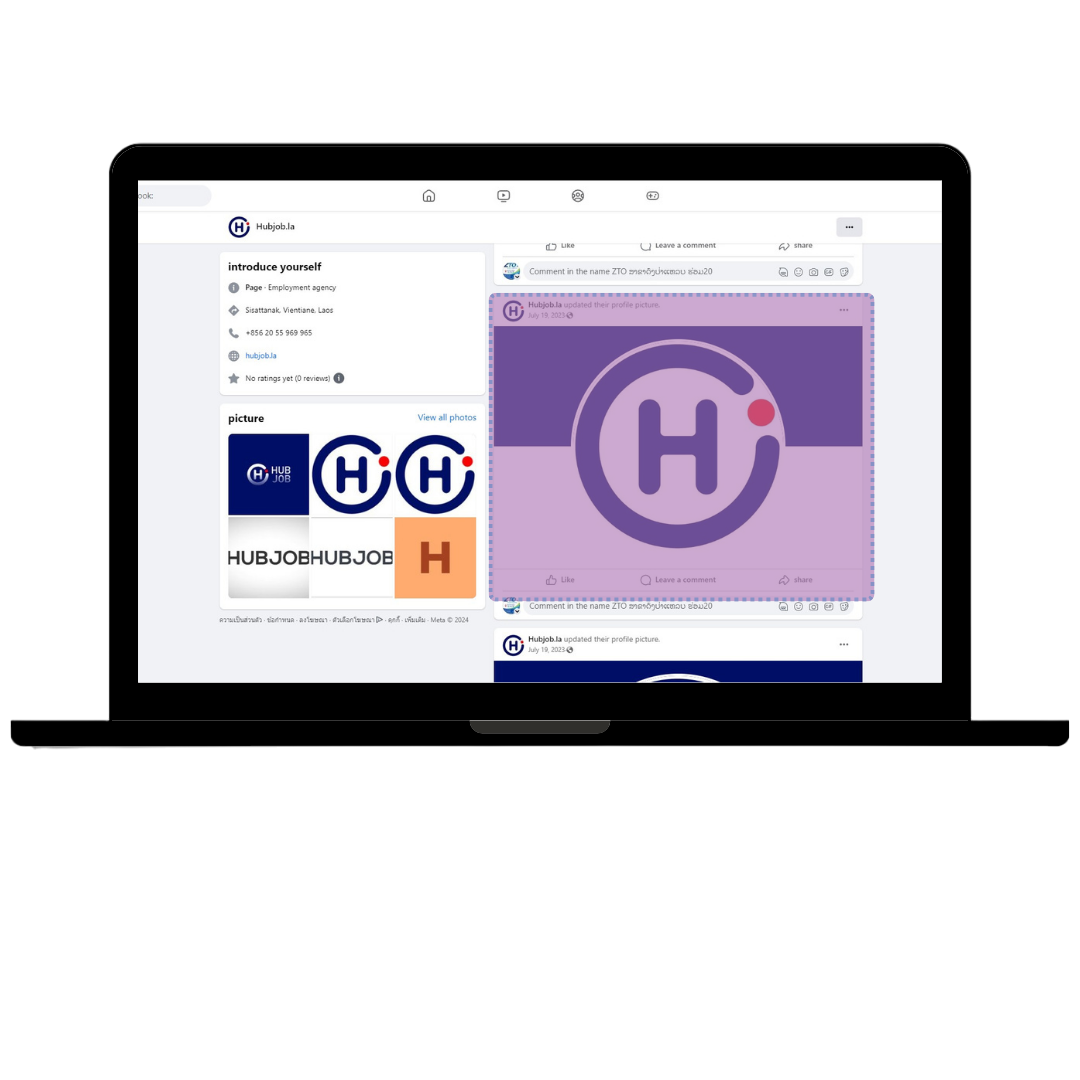
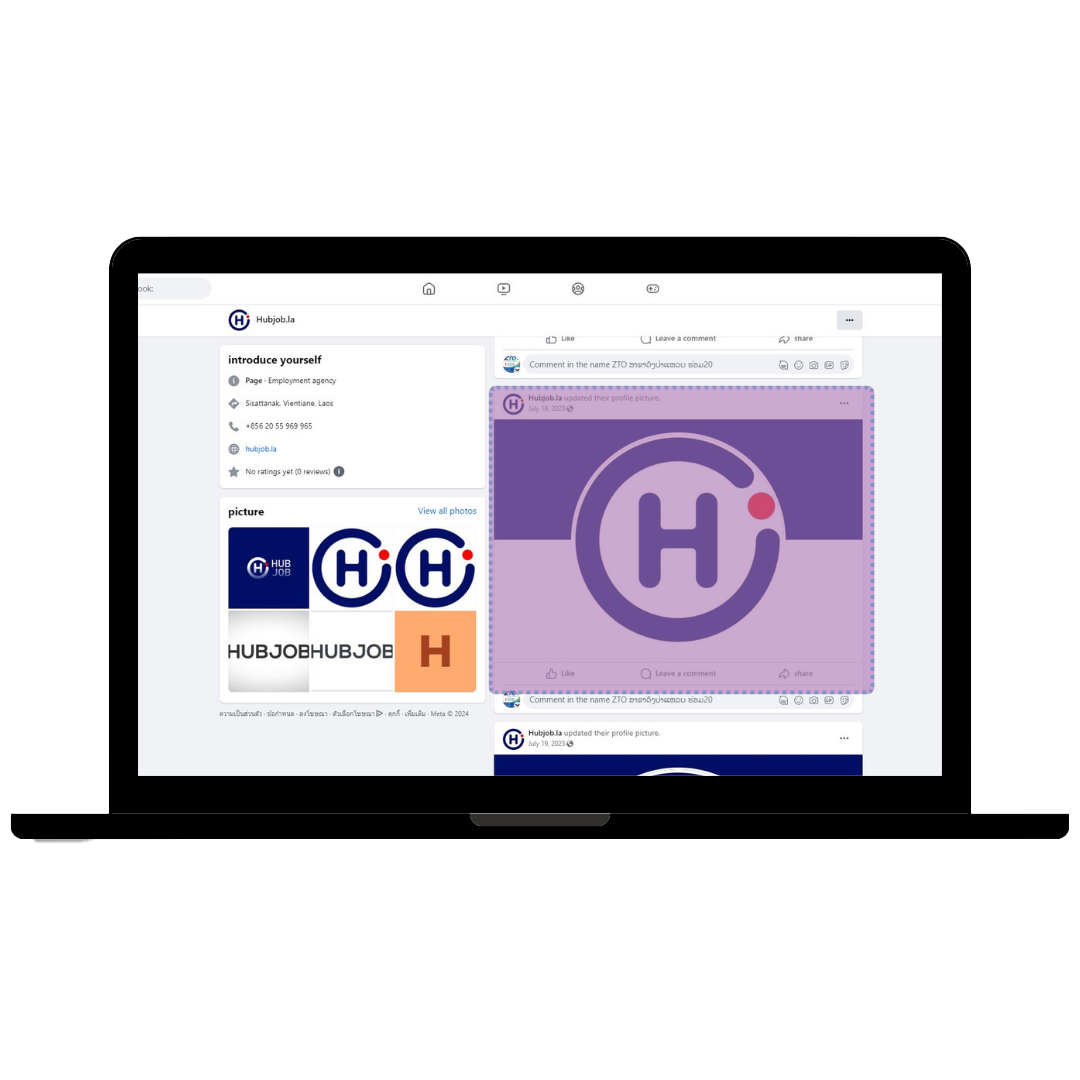
fix: pic poster

diff --git a/public/scss/components/custom-price.scss b/public/scss/components/custom-price.scss
@@ -120,7 +120,7 @@ Pricing Section
     -webkit-transition: all 300ms ease;
     -o-transition: all 300ms ease;
     transition: all 300ms ease;
-    height: 700px;
+    height: 720px;
 }
 
 .pricing-table-facebook .post-container {
@@ -293,7 +293,7 @@ Pricing Section
             /* Center vertically */
             left: 50%;
             /* Center horizontally */
-            transform: translate(-50%, -50%);
+            transform: translate(-50%, 0%);
             /* Adjust for the button's dimensions */
             width: 100%;
             border-radius: 40px;
